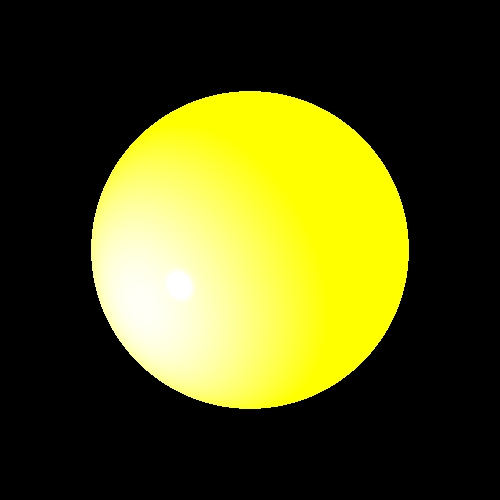
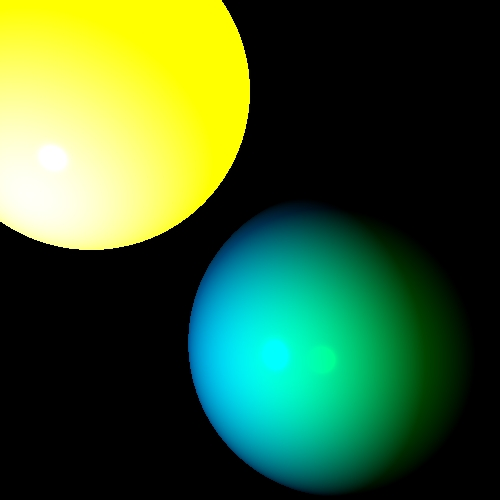
begin stage 5

diff --git a/IME5780-E1-5840-6639/src/unittests/LightsTests.java b/IME5780-E1-5840-6639/src/unittests/LightsTests.java
@@ -204,7 +204,8 @@ public class LightsTests {
         scene.setAmbientLight(new AmbientLight(Color.BLACK, 0));
 
         scene.addGeometries(
-                new Sphere(50,new Point3D(0, 0, 50),new Material(0.5, 0.5, 100),new Color(java.awt.Color.YELLOW)));
+                new Sphere(50,new Point3D(-50, -50, 50),new Material(0.5, 0.5, 100),new Color(java.awt.Color.YELLOW)),
+                new Sphere(50,new Point3D(30, 30, 80),new Material(0.5, 0.5, 100),new Color(java.awt.Color.BLACK)));
 
         scene.addLights(new SpotLight(new Color(0, 300, 0), new Point3D(0, 50, -50),
                 new Vector(1, -1, 2), 1, 0.00001, 0.00000001),
